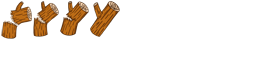
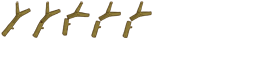
스프라이트 추가

Changed region(s): [[0.0, 0.0, 0.5938, 0.625]]

diff --git a/BeaverGame/game/js/classes/sprites/Twig.js b/BeaverGame/game/js/classes/sprites/Twig.js
@@ -7,6 +7,7 @@ classes.sprites.Twig = cc.Sprite.extend({
     _angle : 0,
     _curLayer: null,
 	_destroyAction: null,
+	_initAction: null,
     _isShielding: false,
     beaverID: 0,
     
@@ -18,6 +19,7 @@ classes.sprites.Twig = cc.Sprite.extend({
         this._isStuck = isStuck;
         this._beaverID = beaverID;
         this._curLayer = layer;
+        this.initSprite();
         this.initDestroySprite();
         switch(type)
         {
@@ -25,7 +27,7 @@ classes.sprites.Twig = cc.Sprite.extend({
         		this.initWithFile(s_Twig_Thorn);
         		break;
         	case BG.TWIG_TYPE.WEEK:
-        		this.initWithFile(s_Twig_Normal);
+        		this.initWithFile(s_Twig_Weak);
         		break;
         }
         //this.setBlendFunc(gl.SRC_ALPHA, gl.ONE);
@@ -96,7 +98,37 @@ classes.sprites.Twig = cc.Sprite.extend({
         
         this._body = body;
     },
-    initDestroySprite: function(){
+    initSprite: function () {
+    	if(this._type === BG.TWIG_TYPE.NORMAL)
+    	{
+	    	// create twig sprite sheet
+	        cc.SpriteFrameCache.getInstance().addSpriteFrames(p_Twig_Normal);
+	        var animFrames = [];
+	        for(var i = 1; i < 7; i++) {
+	            var str = "Branch_00" + i + ".png";
+	            var frame = cc.SpriteFrameCache.getInstance().getSpriteFrame(str);
+	            animFrames.push(frame);
+	        }
+	        var animation = cc.Animation.create(animFrames, 0.5);
+	        this._initAction = cc.RepeatForever.create(cc.Animate.create(animation));
+		    this.runAction(this._initAction); //TODO: Divide with cases
+        }
+        // else if(this._type === BG.TWIG_TYPE.WEEK)
+        // {
+	        // // create weak twig sprite sheet
+	        // cc.SpriteFrameCache.getInstance().addSpriteFrames(p_Twig_Week_Broken);
+	        // var animFrames = [];
+	        // for(var i = 1; i < 6; i++) {
+	            // var str = "weak_00" + i + ".png";
+	            // var frame = cc.SpriteFrameCache.getInstance().getSpriteFrame(str);
+	            // animFrames.push(frame);
+	        // }
+	        // var animation = cc.Animation.create(animFrames, 0.2);
+	        // this._destroyAction = cc.Repeat.create(cc.Animate.create(animation), 1);
+	    // }
+	    
+    },
+    initDestroySprite: function () {
     	if(this._type === BG.TWIG_TYPE.NORMAL)
     	{
 	    	// create broken twig sprite sheet
@@ -115,8 +147,8 @@ classes.sprites.Twig = cc.Sprite.extend({
 	        // create broken week twig sprite sheet
 	        cc.SpriteFrameCache.getInstance().addSpriteFrames(p_Twig_Week_Broken);
 	        var animFrames = [];
-	        for(var i = 1; i < 5; i++) {
-	            var str = "brokenBranch2_00" + i + ".png";
+	        for(var i = 1; i < 6; i++) {
+	            var str = "weak_00" + i + ".png";
 	            var frame = cc.SpriteFrameCache.getInstance().getSpriteFrame(str);
 	            animFrames.push(frame);
 	        }
@@ -129,6 +161,7 @@ classes.sprites.Twig = cc.Sprite.extend({
     	this._curLayer.destroyList.push(this._body);
 		this.runAction(cc.Sequence.create(
 			that._destroyAction,
+			that.stopAction(that._initAction),
 			cc.FadeOut.create(0.2),
 			cc.CallFunc.create(function () {
 				that._curLayer.removeChild(that);

diff --git a/BeaverGame/game/js/classes/layers/DuelGameLayer.js b/BeaverGame/game/js/classes/layers/DuelGameLayer.js
@@ -118,19 +118,19 @@ classes.layers.DuelGameLayer = cc.Layer.extend({
 						case "Twig":
 							if(!beaver.getIsHome() && !target.getIsShielding())
 							{
-								
-							if(target.getType() === BG.TWIG_TYPE.WEEK)
-							{
-								var i = target.getBeaverID();
-								that._beavers[i].removeTailAtIndex(target.getTailIndex());
-							}
-							else if(target.getType() === BG.TWIG_TYPE.NORMAL)
-							{
 								if(target.getBeaverID() == beaver.getID() && target.getTailIndex() == 0 ||
 								target.getBeaverID() == beaver.getID() && target.getTailIndex() == 1
 								) return;
-								beaver.returnToBase();
-							}
+								
+								if(target.getType() === BG.TWIG_TYPE.WEEK)
+								{
+									var i = target.getBeaverID();
+									that._beavers[i].removeTailAtIndex(target.getTailIndex());
+								}
+								else if(target.getType() === BG.TWIG_TYPE.NORMAL)
+								{
+									beaver.returnToBase();
+								}
 							}
 							break;
 						case "Home":
@@ -406,7 +406,7 @@ classes.layers.DuelGameLayer = cc.Layer.extend({
 		this._devilItemOn = bool;
 	},
 	update: function(dt) {
-		if(this._timer.getTime() === 100)
+		if(this._timer.getTime() === 300)
 		{
 			this._baseCamp[0].setColor();
 			this._baseCamp[1].setColor();

diff --git a/BeaverGame/game/js/config/Resource.js b/BeaverGame/game/js/config/Resource.js
@@ -25,6 +25,7 @@ var s_bgStart = "images/bgStart.png";
 // var s_beaver1 = "images/Beaver/beaver_normal.png";
 var p_beaver1 = "images/Beaver/beaver_normal.plist";
 var p_beaverDevil = "images/Beaver/beaver_devil.plist";
+var p_Twig_Normal = "images/Twig_Normal.plist";
 var p_Twig_Normal_Broken = "images/Twig_Thorn_Broken.plist";
 var p_Twig_Week_Broken = "images/Twig_Week_Broken.plist";
 var p_fishMotion = "images/fishMotion.plist";
@@ -36,7 +37,7 @@ var s_player1Recog = "images/playerRecog.png";
 //var s_player3Recog = "images/playerRecog.png";
 //var s_player4Recog = "images/playerRecog.png";
 
-var s_Twig_Normal = "images/Twig_Normal.png";
+var s_Twig_Weak = "images/Twig_Weak.png";
 var s_Twig_Thorn = "images/Twig_Thorn.png";
 var s_Twig_Normal_Shield = "images/Twig_Normal_Shield.png";
 var s_Twig_Thorn_Shield = "images/Twig_Thorn_Shield.png";
@@ -116,7 +117,7 @@ var g_resources_game = [
 	{src:s_Item_Lightning},
 	{src:s_LightningPrepare},
 
-	{src:s_Twig_Normal},
+	{src:s_Twig_Weak},
 	{src:s_Twig_Thorn},
 	{src:s_Twig_Normal_Shield},
 	{src:s_Twig_Thorn_Shield},
@@ -158,6 +159,7 @@ var g_resources_game = [
     {src:p_Twig_Week_Broken},
 	{src:p_waterBomb},
 	{src:p_fishMotion},
+	{src:p_Twig_Normal},
 
     //fnt
 	{src:s_Konqa32}

diff --git a/BeaverGame/game/js/classes/sprites/TimerBoard.js b/BeaverGame/game/js/classes/sprites/TimerBoard.js
@@ -9,7 +9,7 @@ classes.sprites.TimerBoard = cc.Sprite.extend({
         this._super();
         this._curLayer = layer;
         this.initWithFile(s_TimerBoard);
-       	this.setPosition(cc.p(size.width/2, size.height - (BG.GAME_UI.OUTTER_FRAME.HEIGHT / 2) ) );
+       	this.setPosition(cc.p(size.width/2, size.height - (BG.GAME_UI.OUTTER_FRAME.HEIGHT / 2) -10 ) ); //TODO: -40
        	this._limitedTime = 300;
    		this._addTimeLabel();
         layer.addChild(this, 60);
@@ -40,6 +40,6 @@ classes.sprites.TimerBoard = cc.Sprite.extend({
     	return this._curTime;
     },
     setColor: function () {
-        this._timeLabel.setColor(cc.c3(0,0,0));
+        this._timeLabel.setColor(cc.c3(255,0,0));
     }
 });

diff --git a/BeaverGame/game/js/classes/sprites/Beaver.js b/BeaverGame/game/js/classes/sprites/Beaver.js
@@ -318,7 +318,7 @@ classes.sprites.Beaver = cc.Sprite.extend({
 	  		cc.DelayTime.create(0.1),
 	  		cc.CallFunc.create(that.changeAction("devil")),
 	  		cc.CallFunc.create(function () {
-	  			//for removeing manual stun
+	  			//for removing manual stun
 		    	that._curVelocity = BG.BEAVER_SPEED.NORMAL;
 				that._isStun = false;
 				that._move();

diff --git a/BeaverGame/main.js b/BeaverGame/main.js
@@ -69,7 +69,6 @@ var cocos2dApp = cc.Application.extend({
 
         cc.EGLView.getInstance().setDesignResolutionSize(1920, 1080, cc.RESOLUTION_POLICY.SHOW_ALL);
         cc.EGLView.getInstance().resizeWithBrowserSize(true);
-
         
         // turn on display FPS
         //director.setDisplayStats(this.config['showFPS']);
